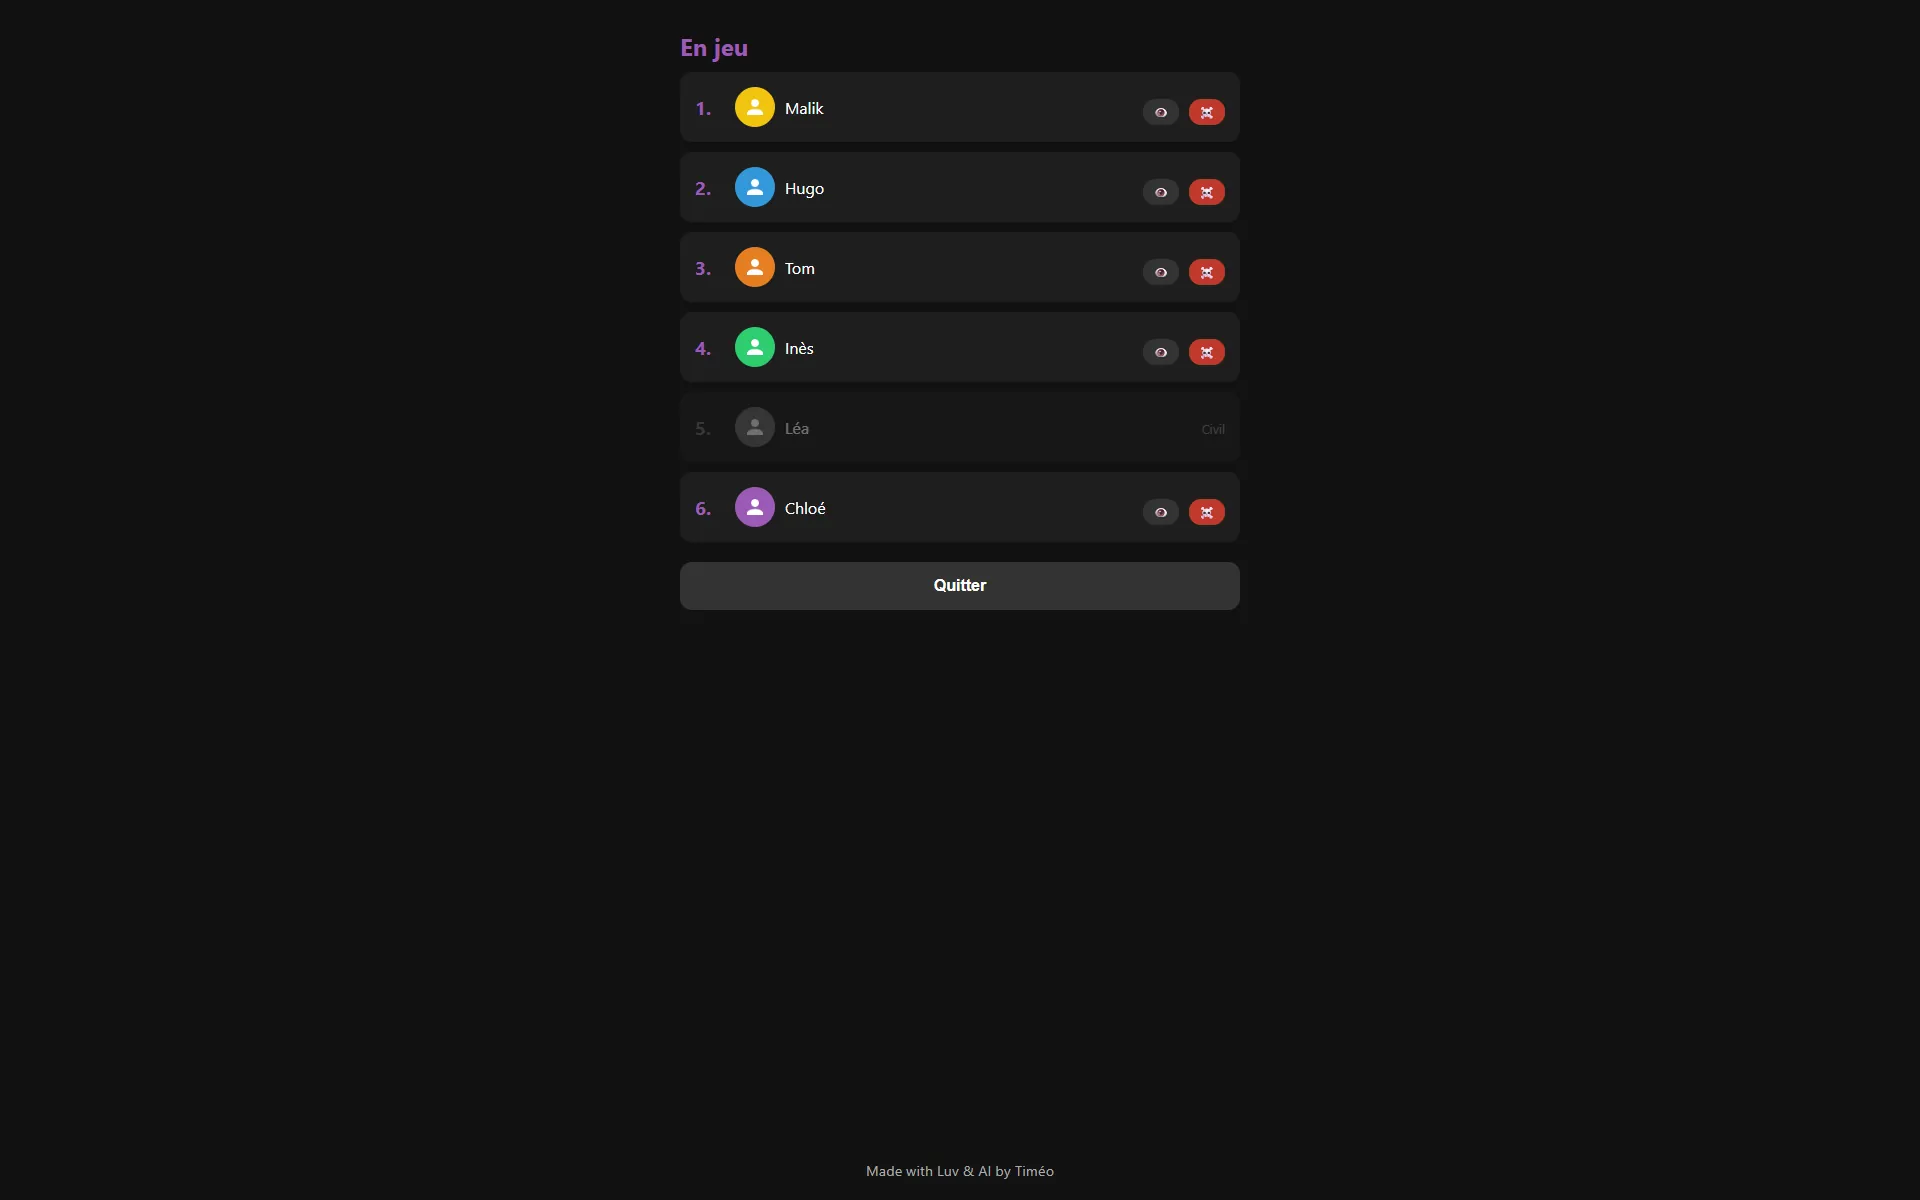
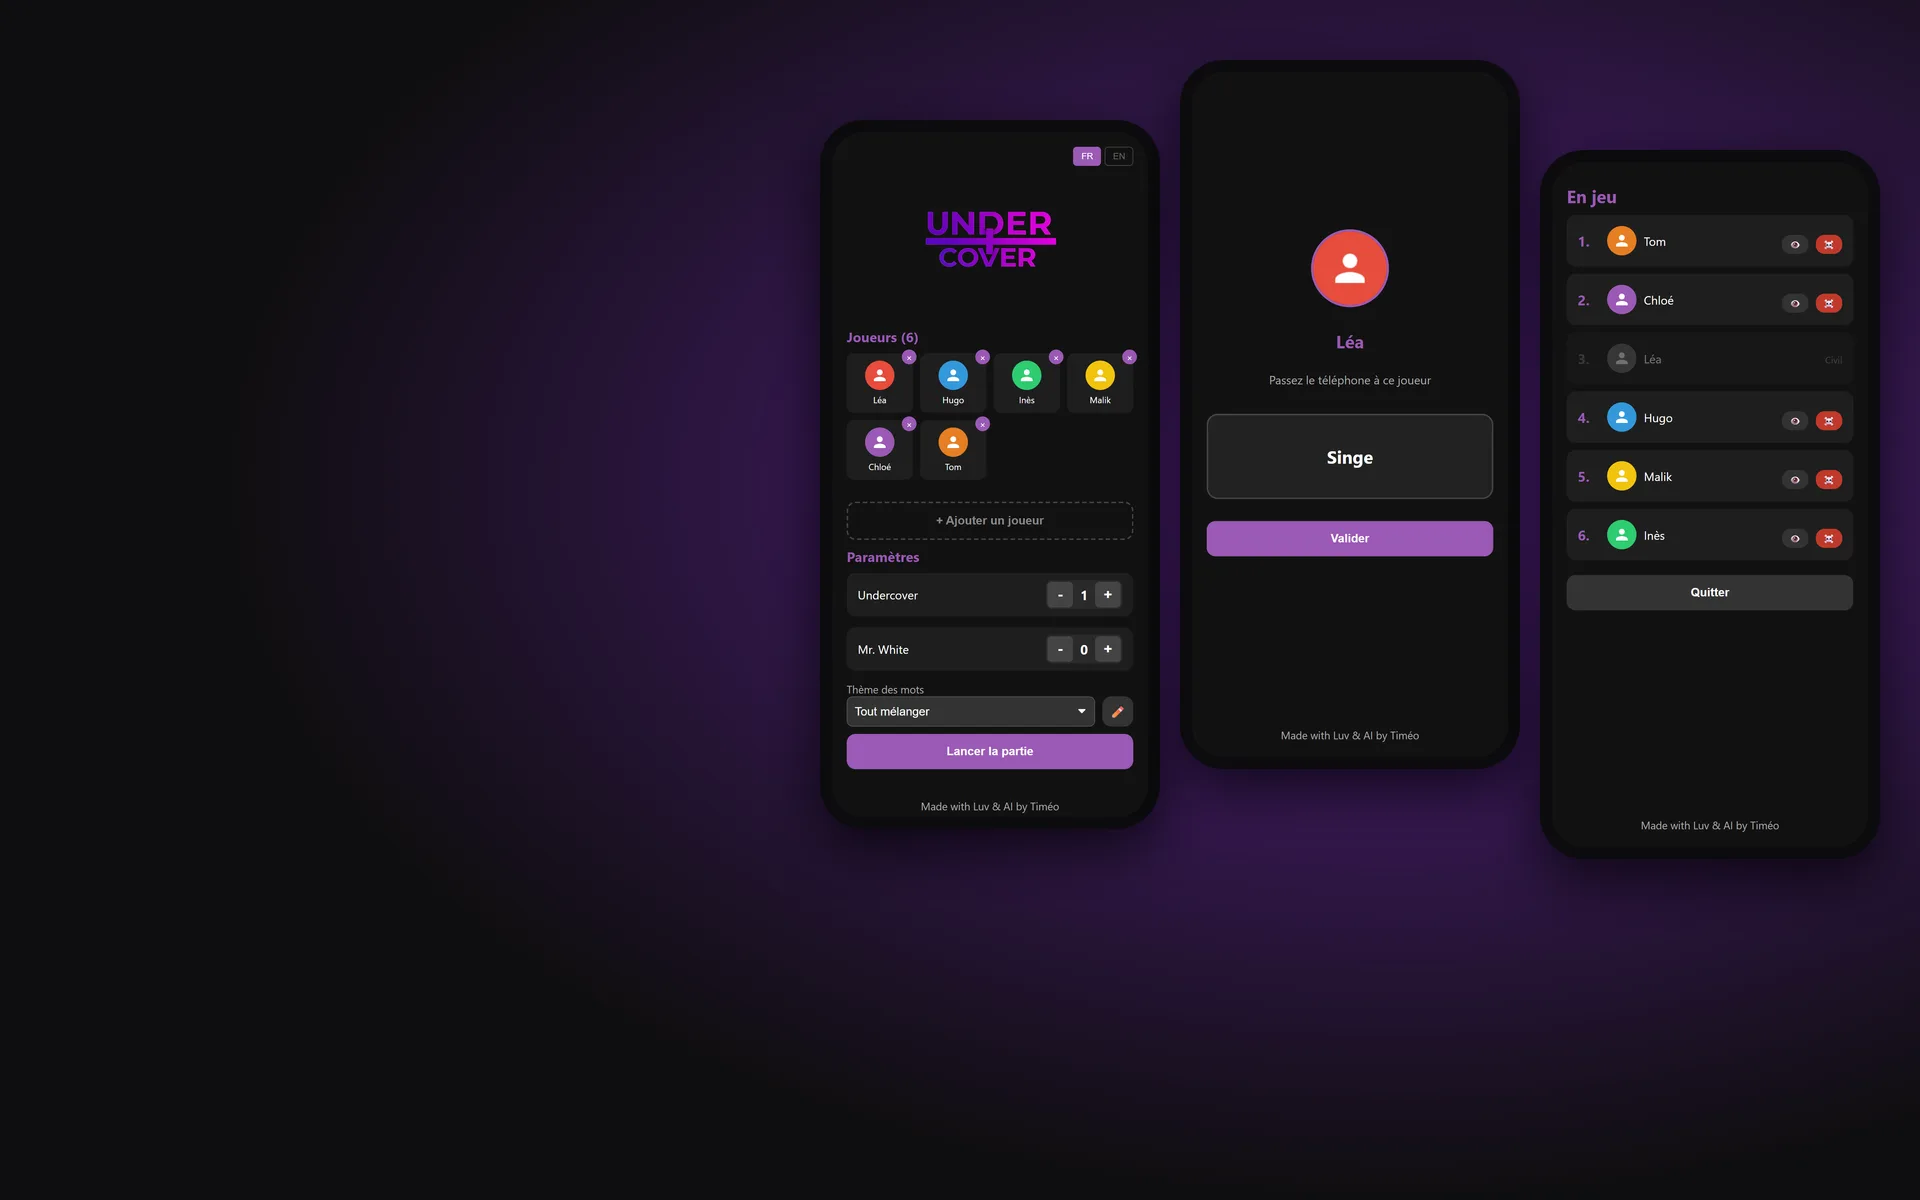
Restore overlay project cards, compose Undercover+ and UniDroid screenshots for them, stop the covered heading from catching the cursor

diff --git a/README.md b/README.md
@@ -48,10 +48,12 @@ Fontsource fonts: import `@fontsource/<font>/<weight>` **without** `.css` (the p
 
 ### Project captures
 
-`npm run captures` regenerates 4 of the screenshots shown in the projects gallery (requires Edge installed, controlled by `puppeteer-core`; no browser is downloaded):
+`npm run captures` regenerates all the screenshots shown in the projects gallery (requires Edge installed, controlled by `puppeteer-core`; no browser is downloaded):
 
 - `scripts/captures/ghostmails.mjs`: inbox with 4 fake emails, with an HTML email open. The API is mocked through request interception: no real address is created.
-- `scripts/captures/undercover.mjs`: game in progress (6 players, one civilian eliminated), with state injected through the app’s functions.
+- `scripts/captures/undercover.mjs`: three phone screens (players, secret word, game in progress with one civilian eliminated), state injected through the app’s functions, composed side by side.
+- `scripts/captures/unidroid.mjs [screenshots folder]`: UniDroid has no website; composes its README screenshots (launcher on a TV, remote on a phone) from `../unidroid-suite/docs/screenshots` by default.
+- `scripts/captures/cadre.mjs`: shared composition helpers (`sharp`): dark 1920×1200 canvas with a colored glow, screens on the right where the card text does not cover them.
 - `scripts/captures/page.mjs <url> <output.webp>`: simple capture (MyCityCost `/map`, PasteTok home page).
 
 ### Counters (Worker + D1)
